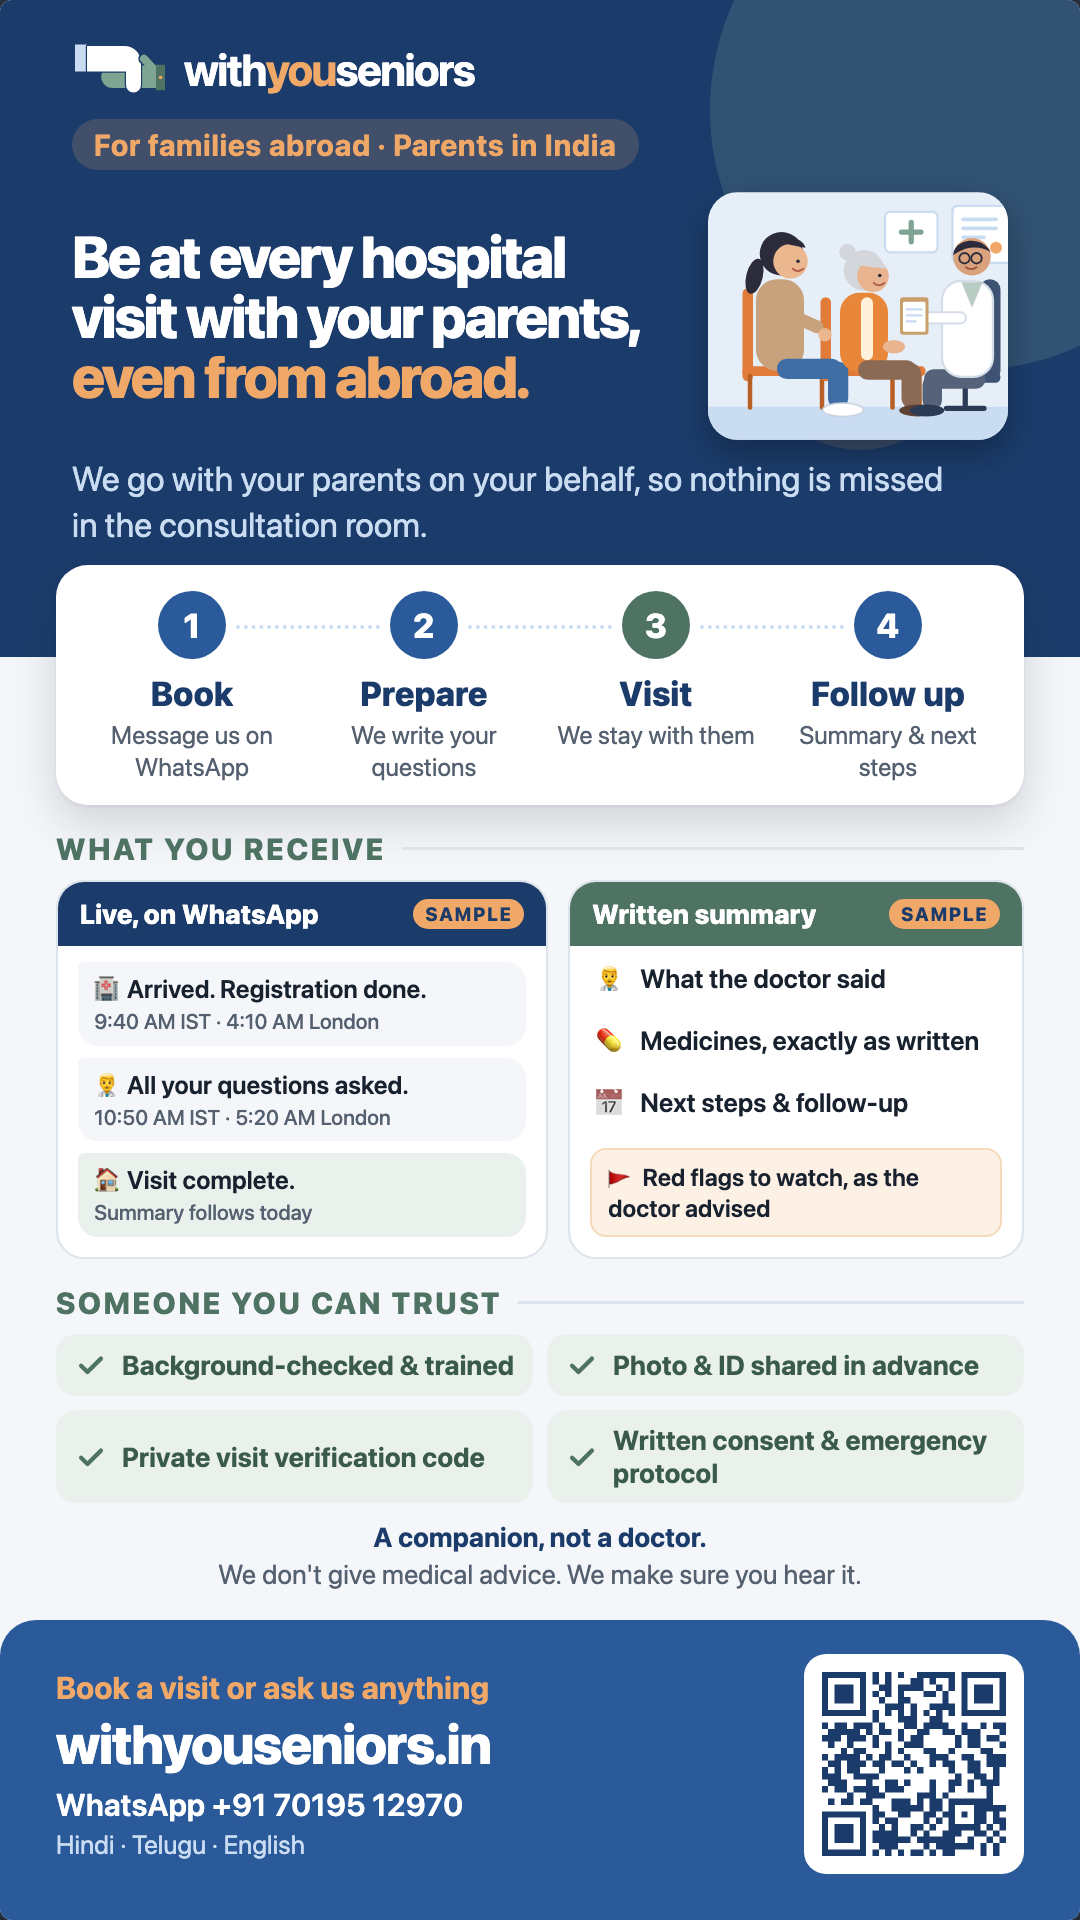
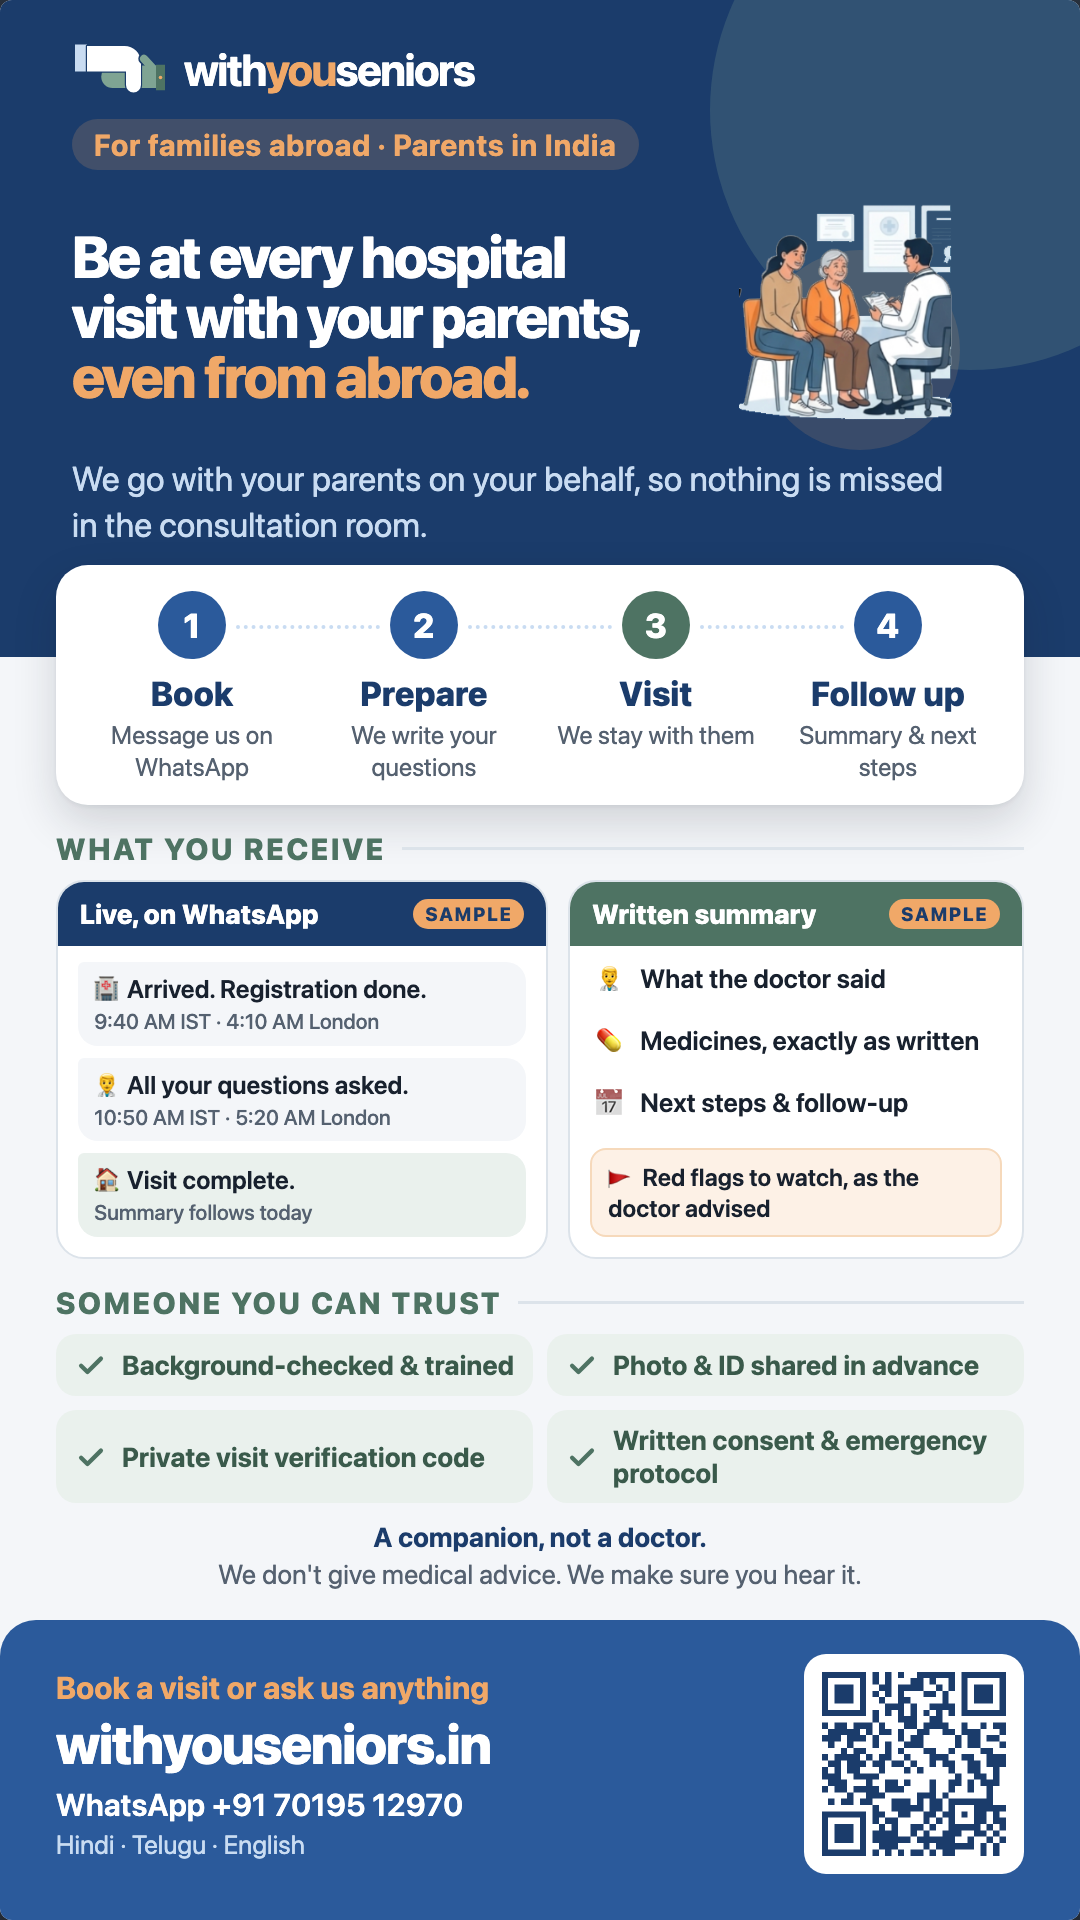
Blend supplied consultation illustration into pamphlet header
Replace the vector scene with the supplied illustration, remove its white backdrop, and regenerate the full-story PNG. Preserve the previous PNG and supplied reference image.

Changed region(s): [[0.6417, 0.0938, 0.9472, 0.25]]

diff --git a/pamplet/complete-illustrated.html b/pamplet/complete-illustrated.html
@@ -20,8 +20,8 @@
   .brand-word .you { color: var(--apricot); }
   .eyebrow { position: relative; z-index: 1; display: inline-block; margin: 22px 0 0; padding: 8px 22px; border-radius: 999px; background: rgba(240,168,104,.18); color: var(--apricot); font-size: 30px; font-weight: 700; letter-spacing: .02em; }
   .hero-row { position: relative; z-index: 1; display: flex; align-items: center; gap: 28px; margin-top: 22px; }
-  .scene { flex: none; width: 300px; height: 248px; border-radius: 30px; overflow: hidden; box-shadow: 0 14px 34px rgba(0,0,0,.28); }
-  .scene svg { width: 100%; height: 100%; }
+  .scene { flex: none; width: 300px; height: 248px; }
+  .scene img { display: block; width: 100%; height: 100%; object-fit: contain; }
   .headline { flex: 1; min-width: 0; margin: 0; font-size: 58px; line-height: 1.04; font-weight: 800; letter-spacing: -0.035em; }
   .headline .hl { color: var(--apricot); white-space: nowrap; }
   .sub { position: relative; z-index: 1; margin: 16px 0 0; font-size: 34px; line-height: 1.34; color: var(--blue-pale); max-width: 900px; }
@@ -84,67 +84,7 @@
     <div class="hero-row">
       <h1 class="headline" data-edit="headline">Be at every hospital<br>visit with your parents,<br><span class="hl">even from abroad.</span></h1>
       <div class="scene">
-      <svg viewBox="0 0 400 330" xmlns="http://www.w3.org/2000/svg" aria-hidden="true">
-        <rect width="400" height="330" fill="#E6EEF8"/>
-        <rect x="236" y="26" width="70" height="54" rx="7" fill="#fff" stroke="#C9DCF2" stroke-width="3"/>
-        <path d="M271 40v26M258 53h26" stroke="#7FA493" stroke-width="7" stroke-linecap="round"/>
-        <rect x="326" y="18" width="84" height="76" rx="7" fill="#fff" stroke="#C9DCF2" stroke-width="3"/>
-        <path d="M340 36h44M340 48h44M340 60h28" stroke="#C9DCF2" stroke-width="5" stroke-linecap="round"/>
-        <circle cx="384" cy="74" r="8" fill="#F0A868"/>
-        <rect x="0" y="286" width="400" height="44" fill="#C9DCF2"/>
-        <!-- chairs -->
-        <rect x="46" y="128" width="14" height="124" rx="7" fill="#E07B39"/>
-        <rect x="46" y="232" width="118" height="13" rx="6" fill="#E07B39"/>
-        <path d="M56 245v42M152 245v42" stroke="#B85F25" stroke-width="6" stroke-linecap="round"/>
-        <rect x="150" y="140" width="14" height="112" rx="7" fill="#E07B39"/>
-        <rect x="150" y="232" width="140" height="13" rx="6" fill="#E07B39"/>
-        <path d="M246 245v42M282 245v42" stroke="#B85F25" stroke-width="6" stroke-linecap="round"/>
-        <!-- doctor chair -->
-        <rect x="362" y="116" width="28" height="136" rx="14" fill="#3E5273"/>
-        <rect x="296" y="240" width="94" height="14" rx="7" fill="#3E5273"/>
-        <path d="M343 254v30M318 288h50" stroke="#2B3A55" stroke-width="7" stroke-linecap="round"/>
-        <!-- companion -->
-        <ellipse cx="62" cy="112" rx="11" ry="24" fill="#2B2B3B" transform="rotate(14 62 112)"/>
-        <circle cx="98" cy="82" r="29" fill="#2B2B3B"/>
-        <rect x="64" y="116" width="64" height="122" rx="28" fill="#C8A27C"/>
-        <circle cx="110" cy="92" r="23" fill="#EBB78F"/>
-        <path d="M96 66c10 -8 30 -6 34 8c-12 -2 -24 -4 -34 -8z" fill="#2B2B3B"/>
-        <circle cx="120" cy="92" r="2.4" fill="#2B2B3B"/>
-        <path d="M113 102q7 6 14 0" fill="none" stroke="#B45F4C" stroke-width="2.6" stroke-linecap="round"/>
-        <rect x="92" y="222" width="86" height="27" rx="13" fill="#3F6EA5"/>
-        <rect x="160" y="226" width="27" height="62" rx="13" fill="#3F6EA5"/>
-        <ellipse cx="180" cy="290" rx="27" ry="9" fill="#fff" stroke="#C9D3DE" stroke-width="2"/>
-        <rect x="100" y="150" width="62" height="17" rx="8.5" fill="#C8A27C" transform="rotate(24 100 150)"/>
-        <circle cx="156" cy="190" r="9" fill="#EBB78F"/>
-        <!-- elder -->
-        <circle cx="186" cy="80" r="11" fill="#D3D6DB"/>
-        <circle cx="208" cy="104" r="27" fill="#D3D6DB"/>
-        <rect x="176" y="134" width="64" height="106" rx="26" fill="#E8873A"/>
-        <rect x="204" y="140" width="16" height="84" rx="8" fill="#FFF1DC"/>
-        <circle cx="220" cy="112" r="21" fill="#E9B591"/>
-        <path d="M200 96c10 -10 30 -8 38 6c-14 -2 -28 -2 -38 -6z" fill="#D3D6DB"/>
-        <circle cx="229" cy="111" r="2.4" fill="#2B2B3B"/>
-        <path d="M221 121q7 6 14 0" fill="none" stroke="#B45F4C" stroke-width="2.6" stroke-linecap="round"/>
-        <rect x="200" y="224" width="78" height="26" rx="13" fill="#8A6A55"/>
-        <rect x="258" y="228" width="26" height="60" rx="13" fill="#8A6A55"/>
-        <ellipse cx="280" cy="291" rx="25" ry="8" fill="#5E4132"/>
-        <ellipse cx="248" cy="206" rx="15" ry="9" fill="#E9B591"/>
-        <!-- doctor -->
-        <rect x="288" y="236" width="82" height="26" rx="13" fill="#55627A"/>
-        <rect x="286" y="244" width="26" height="46" rx="13" fill="#55627A"/>
-        <ellipse cx="292" cy="291" rx="23" ry="8" fill="#2B3A55"/>
-        <rect x="312" y="118" width="68" height="128" rx="26" fill="#fff" stroke="#D5DEE8" stroke-width="3"/>
-        <path d="M338 120l14 34 14-34" fill="#7FA493" opacity=".55"/>
-        <circle cx="352" cy="86" r="25" fill="#D9A27C"/>
-        <path d="M327 84c0 -22 38 -28 50 -4c-12 -8 -32 -10 -50 4z" fill="#2B2B3B"/>
-        <circle cx="342" cy="88" r="7" fill="none" stroke="#2B2B3B" stroke-width="2.4"/>
-        <circle cx="358" cy="88" r="7" fill="none" stroke="#2B2B3B" stroke-width="2.4"/>
-        <path d="M344 100q7 5 14 0" fill="none" stroke="#9A4F3C" stroke-width="2.6" stroke-linecap="round"/>
-        <rect x="282" y="160" width="62" height="15" rx="7.5" fill="#fff" stroke="#D5DEE8" stroke-width="2.5"/>
-        <rect x="256" y="140" width="38" height="50" rx="4" fill="#C9A06B"/>
-        <rect x="260" y="146" width="30" height="40" rx="2" fill="#fff"/>
-        <path d="M265 156h20M265 164h20M265 172h12" stroke="#C9DCF2" stroke-width="3" stroke-linecap="round"/>
-      </svg>
+        <img src="images/consultation-illustration-transparent.png" alt="A companion supporting an elderly parent during a doctor's consultation">
       </div>
     </div>
     <p class="sub" data-edit="sub">We go with your parents on your behalf, so nothing is missed in the consultation room.</p>
